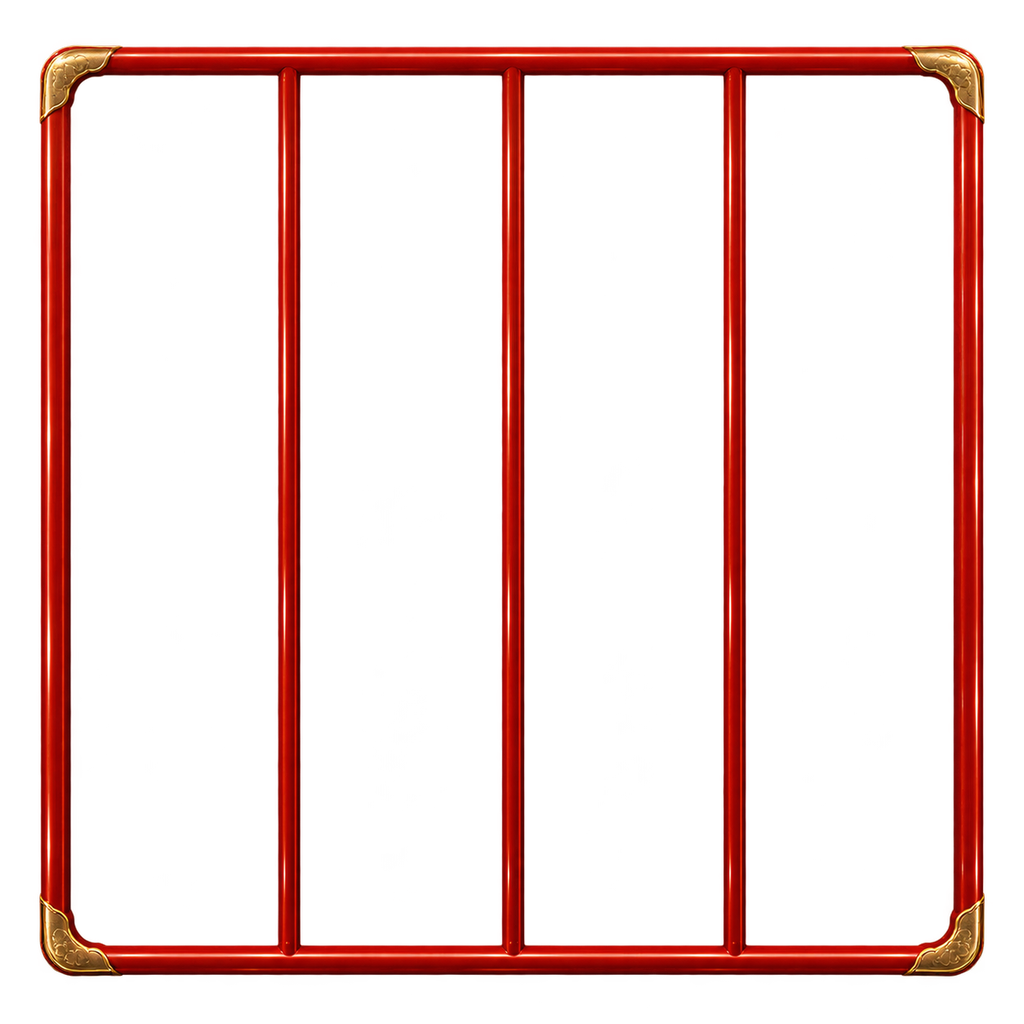
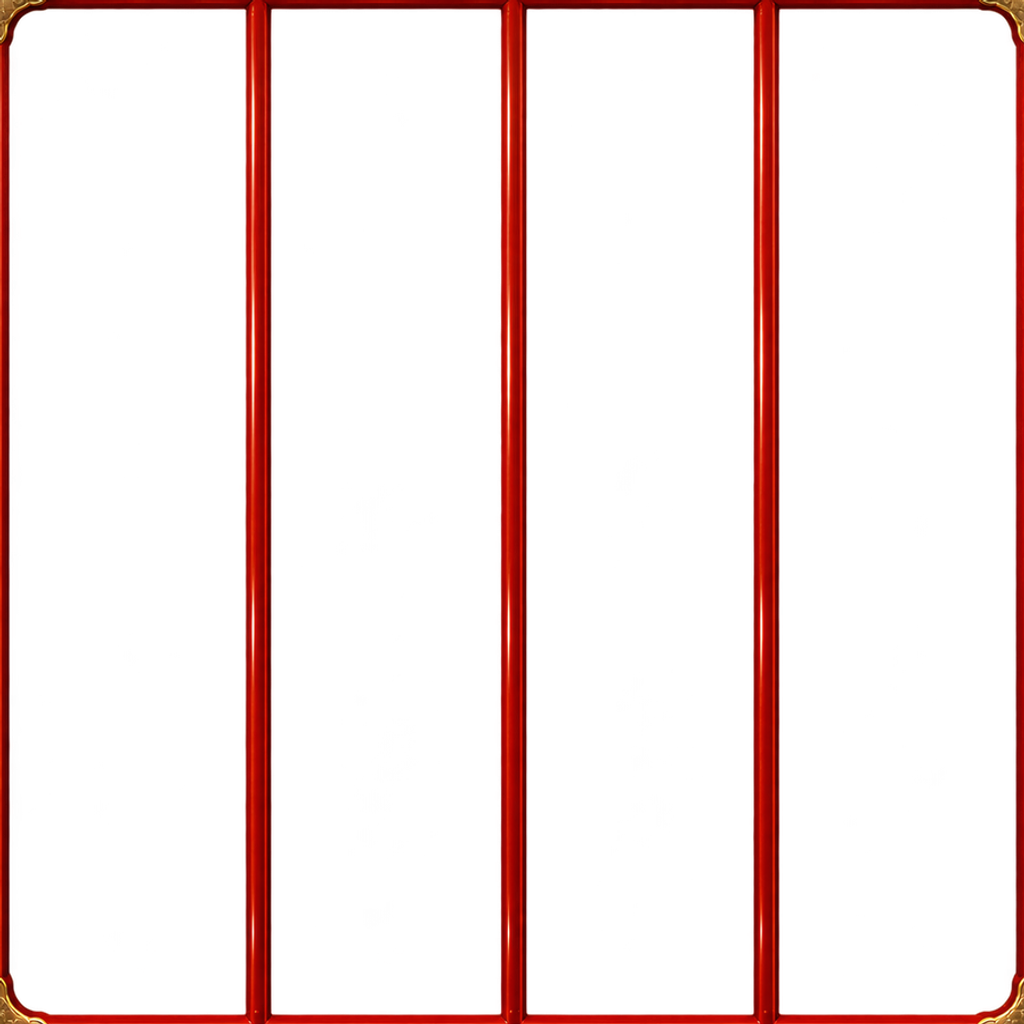
Add ocean/cosmic/japan/palace cage styles (flush frames) to app and widget

Changed region(s): [[0.0, 0.0, 1.0, 1.0]]

diff --git a/src/cageStyles.ts b/src/cageStyles.ts
@@ -16,6 +16,10 @@ export const CAGE_STYLES: readonly CageStyle[] = [
   { id: 'cute_02', name: 'かわいい2', square: require('../assets/cage_square_cute_02.png'), bg: require('../assets/bg_cute_02.png') },
   { id: 'sturdy_01', name: 'ヘビーメタル', square: require('../assets/cage_square_sturdy_01.png'), bg: require('../assets/bg_sturdy_01.png') },
   { id: 'sturdy_02', name: 'ヘビーメタル2', square: require('../assets/cage_square_sturdy_02.png'), bg: require('../assets/bg_sturdy_02.png') },
+  { id: 'ocean', name: 'オーシャン', square: require('../assets/cage_square_ocean.png'), bg: require('../assets/bg_ocean.png') },
+  { id: 'cosmic', name: 'コスミック', square: require('../assets/cage_square_cosmic.png'), bg: require('../assets/bg_cosmic.png') },
+  { id: 'japan', name: '和風', square: require('../assets/cage_square_japan.png'), bg: require('../assets/bg_japan.png') },
+  { id: 'palace', name: 'パレス', square: require('../assets/cage_square_palace.png'), bg: require('../assets/bg_palace.png') },
 ];
 
 export function findStyle(id: string | null | undefined): CageStyle {

diff --git a/targets/widget/expo-target.config.js b/targets/widget/expo-target.config.js
@@ -8,6 +8,14 @@ const images = {
   bg_cute_02: '../../assets/bg_cute_02.png',
   bg_sturdy_01: '../../assets/bg_sturdy_01.png',
   bg_sturdy_02: '../../assets/bg_sturdy_02.png',
+  bg_ocean: '../../assets/bg_ocean.png',
+  cage_square_ocean: '../../assets/cage_square_ocean.png',
+  bg_cosmic: '../../assets/bg_cosmic.png',
+  cage_square_cosmic: '../../assets/cage_square_cosmic.png',
+  bg_japan: '../../assets/bg_japan.png',
+  cage_square_japan: '../../assets/cage_square_japan.png',
+  bg_palace: '../../assets/bg_palace.png',
+  cage_square_palace: '../../assets/cage_square_palace.png',
   cage_square_cute_01: '../../assets/cage_square_cute_01.png',
   cage_square_cute_02: '../../assets/cage_square_cute_02.png',
   cage_square_sturdy_01: '../../assets/cage_square_sturdy_01.png',
